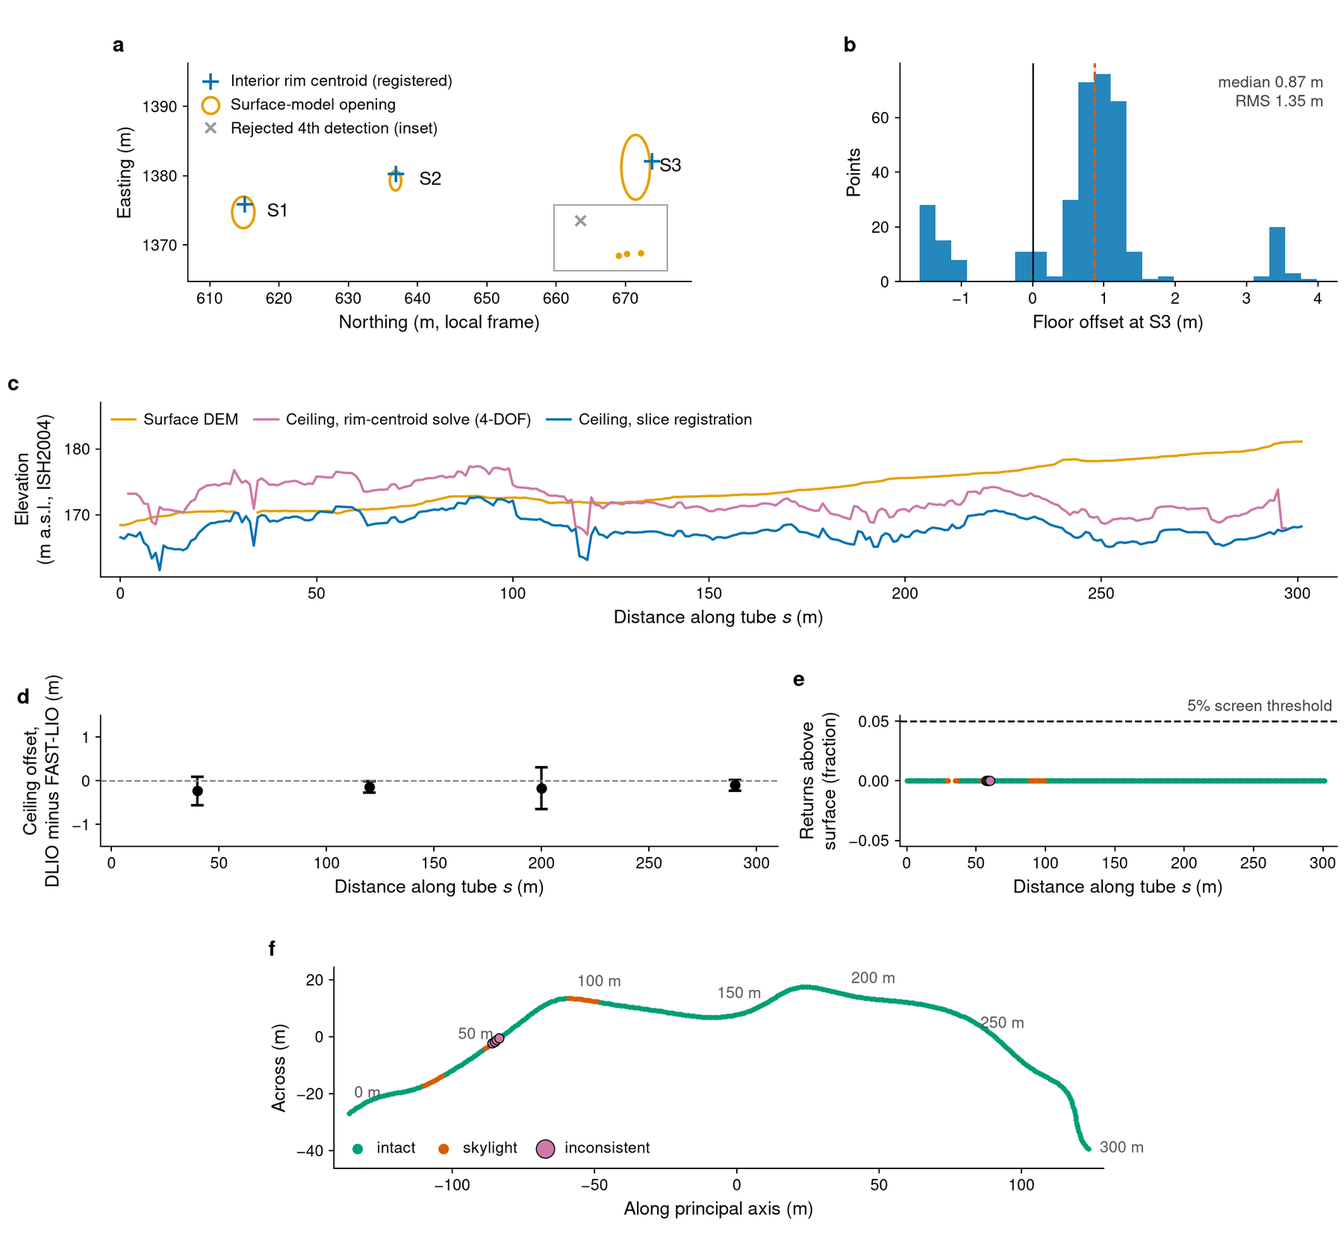
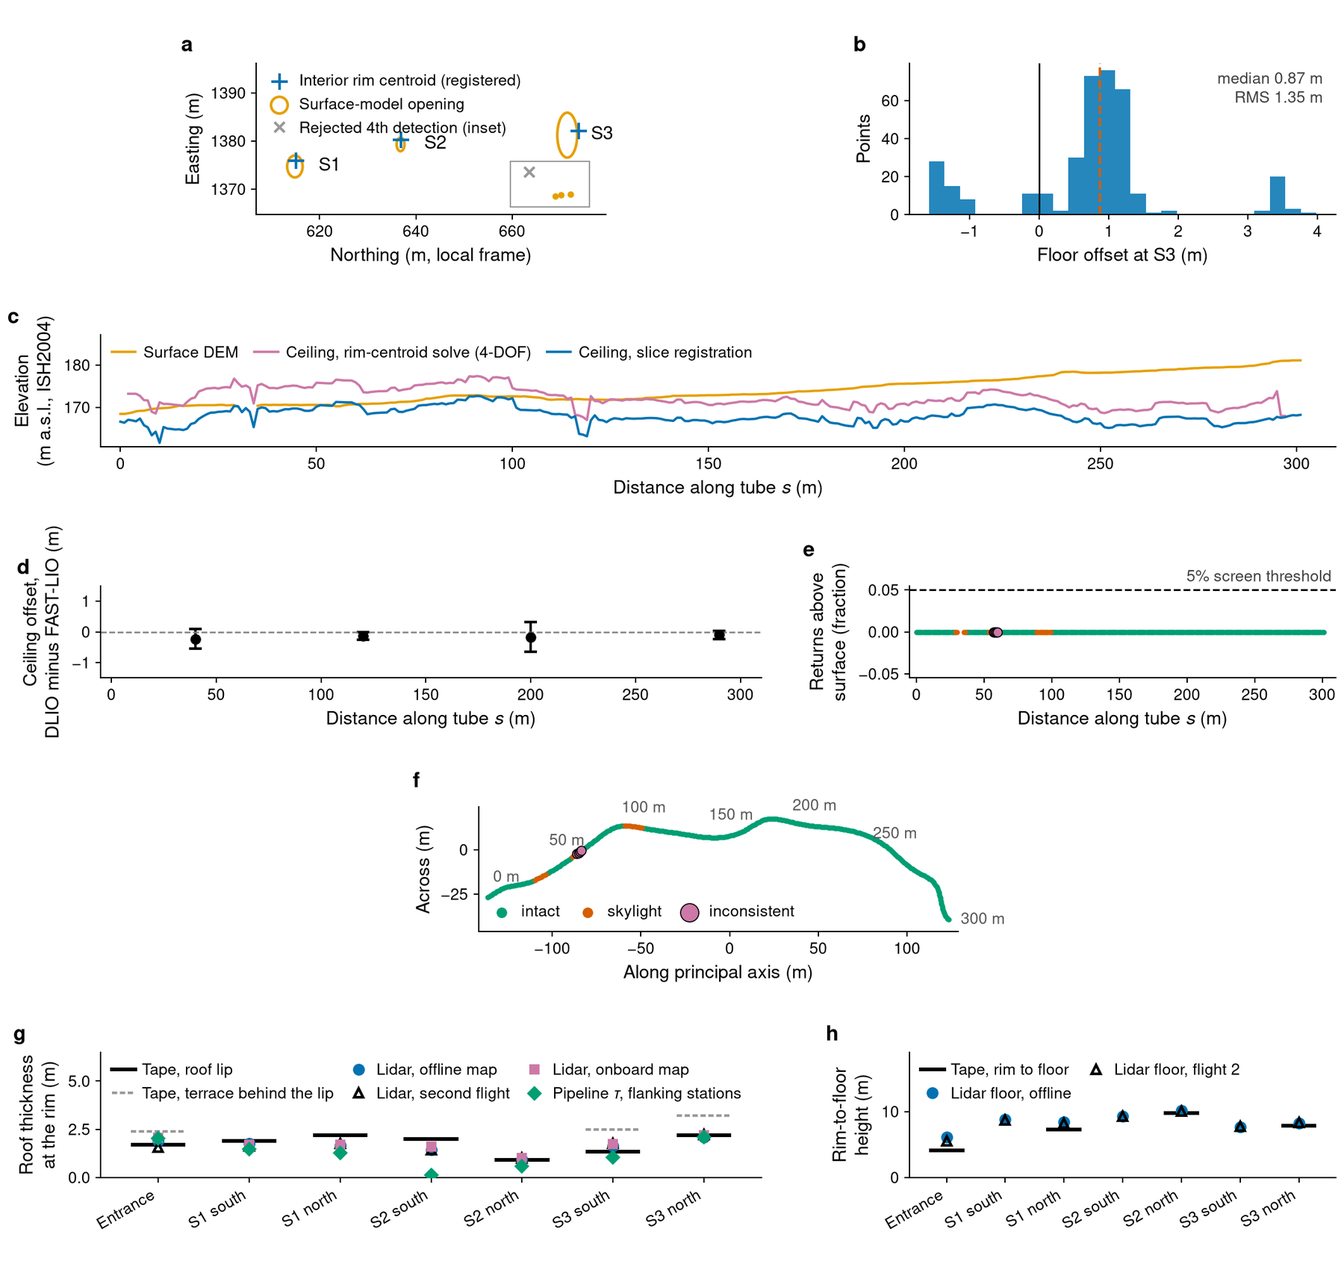
Site: rewrite all prose; add the rim ground-truth section, figure and table
New section 'Checked on site' with the tape-vs-lidar figure and the
seven-point table from Birgir's 2026-09-15 visit; facts strip now six
numbers (14 m maximum cover, 0.3 m tape agreement); hero dates corrected
(flights April 2025, survey August 2025); Extended Data Fig. 5 web copy
refreshed with panels g and h; data table gains the ground-truth row;
team roles added; README describes the new section.

diff --git a/index.html b/index.html
@@ -4,10 +4,10 @@
   <meta charset="utf-8">
   <meta name="viewport" content="width=device-width, initial-scale=1">
   <title>Autonomous interior survey of a lava tube for planetary habitat assessment</title>
-  <meta name="description" content="An autonomous aerial robot mapped 300 m of the closed section of Raufarhólshellir, Iceland, in one flight and produced the first continuous metre-resolution roof-thickness profile of a natural lava tube. Project page with summary, figures, video, data and code.">
+  <meta name="description" content="An autonomous aerial robot mapped 300 m of the closed section of Raufarhólshellir, Iceland, in one flight and measured the rock cover above the tube at every metre. Tape measurements at the skylight rims agree with the lidar to 0.3 m. Summary, figures, ground truth, data and code.">
   <meta name="author" content="Akash Patel, Nikolaos Stathoulopoulos, Edward W. Llewellin, Birgir V. Óskarsson, George Nikolakopoulos">
   <meta property="og:title" content="Autonomous interior survey of a lava tube for planetary habitat assessment">
-  <meta property="og:description" content="300 m of a lava tube mapped in one autonomous flight; a continuous roof-thickness profile for planetary habitat assessment.">
+  <meta property="og:description" content="300 m of a lava tube mapped in one autonomous flight, a roof-thickness profile at every metre, and a tape check at the rims that agrees to 0.3 m.">
   <meta property="og:type" content="website">
   <meta property="og:image" content="assets/figures/fig3_merged_model.jpg">
   <link rel="preconnect" href="https://fonts.googleapis.com">
@@ -26,6 +26,7 @@
         <li><a href="#summary">Summary</a></li>
         <li><a href="#video">Video</a></li>
         <li><a href="#figures">Figures</a></li>
+        <li><a href="#groundtruth">Ground truth</a></li>
         <li><a href="#data">Data and code</a></li>
         <li><a href="#publications">Publications</a></li>
         <li><a href="#cite">Cite</a></li>
@@ -59,16 +60,18 @@
         <a class="btn" href="#video">Video</a>
         <a class="btn" href="#data">Data and code</a>
       </div>
-      <p class="status">Field campaign: Raufarhólshellir, Iceland, August 2025.</p>
+      <p class="status">Raufarhólshellir, Iceland. Autonomous flights April 2025; surface survey 28 August 2025; tape check at the rims 15 September 2026.</p>
     </div>
   </section>
 
   <section class="facts" aria-label="Key numbers">
     <div class="wrap">
       <div class="fact"><div class="num">300 m</div><div class="lbl">of the closed section of Raufarhólshellir mapped in one autonomous flight</div></div>
-      <div class="fact"><div class="num">0</div><div class="lbl">positioning infrastructure and no command after launch</div></div>
+      <div class="fact"><div class="num">0</div><div class="lbl">commands after launch, and no positioning infrastructure in the tube</div></div>
       <div class="fact"><div class="num">3</div><div class="lbl">skylights anchor the interior map to an independent surface model</div></div>
-      <div class="fact"><div class="num">1 m</div><div class="lbl">resolution of the continuous roof-thickness profile</div></div>
+      <div class="fact"><div class="num">1 m</div><div class="lbl">spacing of the rock-cover profile along the tube</div></div>
+      <div class="fact"><div class="num">14 m</div><div class="lbl">thickest cover measured, under the road at the far end of the survey</div></div>
+      <div class="fact"><div class="num">0.3 m</div><div class="lbl">agreement between the lidar roof thickness and a tape at seven skylight rims</div></div>
       <div class="fact"><div class="num">2 to 14 m</div><div class="lbl">of rock cover along the surveyed reach</div></div>
       <div class="fact"><div class="num">84%</div><div class="lbl">of stations exceed a shielding column of 500 g cm<sup>-2</sup></div></div>
     </div>
@@ -78,9 +81,10 @@
     <div class="wrap">
       <div class="section-head"><span class="num">01</span><h2 id="summary-h">Summary</h2></div>
       <div class="measure">
-        <p>Lava tubes on the Moon and Mars are leading candidates for crewed shelters, because a basalt roof blocks ionising radiation and damps the thermal swing at the surface. Orbital imagery has catalogued hundreds of candidate entrances, but every detection ends at the opening. Roof thickness, the shape of the void beneath and whether the roof will stand cannot be seen from above. On Earth, roof thickness has been measured at isolated transects, never continuously along a natural tube.</p>
-        <p>Here we show that an autonomous aerial robot obtains that measurement in a single flight. With no positioning infrastructure and no command after launch, it reconstructed 300 metres of Raufarhólshellir, a lava tube in Iceland. Its three skylights anchor the interior to an independent surface model and yield a continuous, metre-resolution profile of the rock cover. The cover ranges from a few metres to fourteen and shields against cosmic rays almost everywhere, so the limiting constraint on shelter is structural. The standing spans demand rock strengths within the range measured for jointed basalt. The measurement survives degradation of the surface model to orbital quality, so the workflow transfers to the catalogued skylights of Mars and the Moon.</p>
-        <p class="note">The surface model is an eBee X RTK photogrammetric survey flown on 28 August 2025 by the Natural Science Institute of Iceland. The interior map comes from the lidar-inertial reconstruction of the robot's own flight. The orbital transfer test degrades the surface model to the posting and vertical noise of HiRISE-, LROC- and CTX-class terrain models and repeats the whole computation.</p>
+        <p>A lava tube is the tunnel left behind when a basalt flow drains. On the Moon and Mars such tubes are the leading candidates for crewed shelters. A roof of a few metres of basalt cuts the cosmic-ray dose by orders of magnitude and flattens the swing between day and night. Orbital cameras have found hundreds of openings. A camera sees only the hole. It cannot tell how thick the roof is, what the void beneath looks like, or whether the roof will hold. On Earth the roof has been measured at a few transects with radar, never along a tube.</p>
+        <p>We flew a small autonomous aerial robot into Raufarhólshellir, a lava tube near Reykjavík, and let it map 300 metres of the closed section on its own. It carried a spinning lidar and an inertial unit, ran its own state estimator, exploration planner and mission supervisor, and received one command: start. The map it returned is registered to a photogrammetric model of the ground above through the three skylights that both data sets see. Subtracting the ceiling from the surface gives the rock cover at every metre along the tube. It is close to zero at the collapses, 14 metres under the road at the far end and 6 metres in the median.</p>
+        <p>Two results follow. The cover shields against cosmic rays almost everywhere, so what limits a shelter is whether the roof stands, and the spans that stand here demand rock strengths inside the range measured for jointed basalt. And the measurement survives when the surface model is degraded to the quality of orbital terrain models, so the same workflow would work at a Martian or lunar skylight with an orbiter's map and a robot's flight.</p>
+        <p class="note">The flights took place in April 2025. The surface model is an eBee X RTK photogrammetric survey that Birgir V. Óskarsson of the Natural Science Institute of Iceland flew on 28 August 2025. In September 2026 he went back and measured the roof at the skylight rims with a tape; the section <a href="#groundtruth">Checked on site</a> compares his numbers with ours.</p>
       </div>
     </div>
   </section>
@@ -88,7 +92,7 @@
   <section class="section" id="video" aria-labelledby="video-h">
     <div class="wrap">
       <div class="section-head"><span class="num">02</span><h2 id="video-h">Supplementary video</h2></div>
-      <p class="measure lede">The flight from launch to the deepest station, the map growing onboard, and the registration through the skylights.</p>
+      <p class="measure lede">The flight from launch to the deepest station, with the map growing onboard and the planner choosing where to look next. The file will be added when the cut is final.</p>
       <div class="video-frame">
         <div class="video-placeholder">
           <div class="card">
@@ -115,7 +119,7 @@
   <section class="section" id="figures" aria-labelledby="figures-h">
     <div class="wrap">
       <div class="section-head"><span class="num">03</span><h2 id="figures-h">Figures</h2></div>
-      <p class="measure note">Click a figure to open it at full size. Legends follow the manuscript.</p>
+      <p class="measure note">Click a figure to open it at full size. The legends are those of the manuscript.</p>
 
       <figure class="figure" id="fig1">
         <a class="frame" href="assets/figures/fig1_anatomy_site.jpg" data-lightbox data-alt="Anatomy of a lava tube and the field site" data-caption="Figure 1 | Anatomy of a lava tube and the field site.">
@@ -215,10 +219,49 @@
     </div>
   </section>
 
+  <section class="section" id="groundtruth" aria-labelledby="groundtruth-h">
+    <div class="wrap">
+      <div class="section-head"><span class="num">04</span><h2 id="groundtruth-h">Checked on site</h2></div>
+      <div class="measure">
+        <p class="lede">On 15 September 2026, after the analysis was finished, Birgir Óskarsson went back to the tube with a tape. None of his numbers entered the analysis; they are the check.</p>
+        <p>At the north and south rim of the entrance and of each skylight he hung the tape from the ground surface to the underside of the roof lip, and at four of the openings from the rim down to the floor. The registered model gives the same quantities: the surface elevation minus the highest lidar returns just outside each rim, and minus the lowest returns beneath it. Over the seven rim points the lidar roof thickness differs from the tape by 0.1 m on average and by 0.33 m root mean square. The largest difference is 0.6 m. Between themselves, the three interior maps (the two flights and the onboard map) agree to about 0.1 m. The rim-to-floor heights agree to 0.4 m at S2 and S3 and to 1.1 m at S1. At the entrance the lidar floor lies 2 m below the tape value; what the tape was measured to there is being confirmed. His point coordinates, digitised on his own orthomosaic, fall on the surface model at our reprojection to 3 cm, which confirms the horizontal frame as well.</p>
+        <p>The paper quotes a systematic uncertainty of 1.5 m on the whole profile, set by the registration datum. The rim check bounds the datum error along the skylight reach at about 0.6 m. We keep the larger value because the check does not reach the deep interior, where the cover is thickest. He also counted the flow units on the west wall of each skylight, three, five and four, with the thickest units 1.4 to 2.8 m, and collected two rock samples. Their bulk density, once measured, replaces the 2,600 kg per cubic metre the shielding numbers assume.</p>
+      </div>
+
+      <figure class="figure" id="figgt">
+        <a class="frame" href="assets/figures/rim_groundtruth.png" data-lightbox data-alt="Tape measurements at the skylight rims against the registered model" data-caption="Tape measurements at the skylight rims against the registered model.">
+          <img src="assets/figures/rim_groundtruth.png" width="1800" height="620" alt="Tape measurements at the skylight rims against the registered model" loading="lazy">
+        </a>
+        <figcaption>
+          <span class="title">Ground truth<span class="sep">|</span>Tape against lidar at the seven rim points</span>
+          <p><b>a</b>, Roof thickness at the rim: the tape value (black bar; dotted grey, the thicker terrace behind the lip where one exists) against the registered lidar for the offline map, the second flight and the onboard map, and the pipeline overburden at the three nearest intact stations. <b>b</b>, Height from the rim to the floor by tape and from the lidar floor of the two flights. The same panels appear as Extended Data Fig. 5g, h.</p>
+        </figcaption>
+      </figure>
+
+      <div class="table-wrap">
+        <table>
+          <thead>
+            <tr><th scope="col">Rim point</th><th scope="col">Tape, lip (m)</th><th scope="col">Tape, terrace (m)</th><th scope="col">Lidar, offline (m)</th><th scope="col">Lidar, flight 2 (m)</th><th scope="col">Lidar, onboard (m)</th><th scope="col">Pipeline, flanking stations (m)</th><th scope="col">Rim to floor, tape (m)</th><th scope="col">Rim to floor, lidar (m)</th></tr>
+          </thead>
+          <tbody>
+            <tr><td>Entrance</td><td>1.70</td><td>2.40</td><td>1.9</td><td>1.6</td><td>2.0</td><td>2.0</td><td>4.10</td><td>6.1</td></tr>
+            <tr><td>S1 south</td><td>1.90</td><td></td><td>1.8</td><td>1.6</td><td>1.7</td><td>1.5</td><td></td><td>8.8</td></tr>
+            <tr><td>S1 north</td><td>2.20</td><td></td><td>1.7</td><td>1.8</td><td>1.7</td><td>1.3</td><td>7.30</td><td>8.4</td></tr>
+            <tr><td>S2 south</td><td>2.00</td><td></td><td>1.4</td><td>1.4</td><td>1.6</td><td>0.1</td><td></td><td>9.3</td></tr>
+            <tr><td>S2 north</td><td>0.90</td><td></td><td>0.9</td><td>1.0</td><td>1.0</td><td>0.6</td><td>9.80</td><td>10.1</td></tr>
+            <tr><td>S3 south</td><td>1.35</td><td>2.50</td><td>1.6</td><td>1.8</td><td>1.7</td><td>1.0</td><td></td><td>7.7</td></tr>
+            <tr><td>S3 north</td><td>2.20</td><td>3.20</td><td>2.1</td><td>2.2</td><td>2.2</td><td>2.1</td><td>7.80</td><td>8.2</td></tr>
+          </tbody>
+        </table>
+      </div>
+      <p class="note" style="margin-top:1rem">Lip: the uppermost roof terrace, surface to underside. Terrace: the thicker terrace behind the lip, read by eye. Lidar: surface elevation minus the highest interior returns in a strip 0.5 to 3.5 m outward from the rim point. Flanking stations: the paper's overburden at the three nearest retained stations. Rim to floor, lidar: surface minus the lowest returns within 3 m of the point, offline map, April 2025. Flow units on the west walls: S1 three (lowest 2.83 m), S2 five (lowest about 1.4 m), S3 four (middle two 1.8 and 2.0 m). Comparison script and files: <a href="https://github.com/aakapatel/lava-pcd/blob/main/analysis/skylight_groundtruth.py">skylight_groundtruth.py</a>, <a href="https://github.com/aakapatel/lava-pcd/tree/main/analysis_out_v9/groundtruth_2026-09-15">field CSV and notes</a>, <a href="https://github.com/aakapatel/lava-pcd/blob/main/analysis_out_v9/skylight_groundtruth.json">results JSON</a>.</p>
+    </div>
+  </section>
+
   <section class="section" id="data" aria-labelledby="data-h">
     <div class="wrap">
-      <div class="section-head"><span class="num">04</span><h2 id="data-h">Data and code</h2></div>
-      <p class="measure lede">Every figure and every number in the paper is produced by the analysis code from the files below. All files are on the <a href="https://github.com/aakapatel/lavatube-survey/releases/tag/data-v1">data-v1 release</a> of this site's repository, with <a href="https://github.com/aakapatel/lavatube-survey/releases/download/data-v1/DATA_README.md">a README</a> on coordinate frames and licences and <a href="https://github.com/aakapatel/lavatube-survey/releases/download/data-v1/SHA256SUMS.txt">SHA-256 checksums</a>. The same files are archived at Zenodo, <a href="https://doi.org/10.5281/zenodo.22710161">doi:10.5281/zenodo.22710161</a> (the DOI resolves once the record is published). Data licence CC BY 4.0.</p>
+      <div class="section-head"><span class="num">05</span><h2 id="data-h">Data and code</h2></div>
+      <p class="measure lede">The analysis code produces every figure and every number in the paper from the files below. All files are on the <a href="https://github.com/aakapatel/lavatube-survey/releases/tag/data-v1">data-v1 release</a> of this site's repository, with <a href="https://github.com/aakapatel/lavatube-survey/releases/download/data-v1/DATA_README.md">a README</a> on coordinate frames and licences and <a href="https://github.com/aakapatel/lavatube-survey/releases/download/data-v1/SHA256SUMS.txt">SHA-256 checksums</a>. The same files are archived at Zenodo, <a href="https://doi.org/10.5281/zenodo.22710161">doi:10.5281/zenodo.22710161</a>. Data licence CC BY 4.0.</p>
       <div class="table-wrap">
         <table>
           <thead>
@@ -256,8 +299,14 @@
               <td><a href="https://github.com/aakapatel/lavatube-survey/releases/download/data-v1/analysis_outputs_baseline_and_ed.zip">analysis_outputs_baseline_and_ed.zip (15 MB)</a></td>
             </tr>
             <tr>
+              <td>Ground truth at the rims</td>
+              <td>The tape measurements of 15 September 2026 at seven rim points (field CSV and notes, B. V. Óskarsson), the script that compares them with the registered model, and its outputs per point.</td>
+              <td class="fmt">CSV, JSON, Python</td>
+              <td><a href="https://github.com/aakapatel/lava-pcd/tree/main/analysis_out_v9/groundtruth_2026-09-15">field CSV and notes</a> · <a href="https://github.com/aakapatel/lava-pcd/blob/main/analysis_out_v9/skylight_groundtruth.json">comparison (JSON)</a> · <a href="https://github.com/aakapatel/lava-pcd/blob/main/analysis/skylight_groundtruth.py">script</a></td>
+            </tr>
+            <tr>
               <td>Figures</td>
-              <td>The five main figures and ten Extended Data items as PDF and PNG, as generated by the code.</td>
+              <td>The five main figures and ten Extended Data items as PDF and PNG, as the code generates them. Extended Data Fig. 5 gained the rim panels on 17 September 2026; the current file is in the analysis repository.</td>
               <td class="fmt">PDF, PNG</td>
               <td><a href="https://github.com/aakapatel/lavatube-survey/releases/download/data-v1/figures_nature_v10.zip">figures_nature_v10.zip (68 MB)</a></td>
             </tr>
@@ -281,8 +330,8 @@
 
   <section class="section" id="publications" aria-labelledby="pubs-h">
     <div class="wrap">
-      <div class="section-head"><span class="num">05</span><h2 id="pubs-h">Related publications</h2></div>
-      <p class="measure lede">The exploration planner flown in the tube and its ground-aerial extension.</p>
+      <div class="section-head"><span class="num">06</span><h2 id="pubs-h">Related publications</h2></div>
+      <p class="measure lede">The two papers that describe the planner the robot flew, and its extension to a ground and aerial pair.</p>
       <ol class="pubs">
         <li class="pub">
           <span class="title">STAGE: Scalable and Traversability-Aware Graph based Exploration Planner for Dynamically Varying Environments</span>
@@ -306,8 +355,8 @@
 
   <section class="section" id="cite" aria-labelledby="cite-h">
     <div class="wrap">
-      <div class="section-head"><span class="num">06</span><h2 id="cite-h">Cite</h2></div>
-      <p class="measure note">The entry below is a placeholder until the paper is published. It will be replaced with the final reference and DOI.</p>
+      <div class="section-head"><span class="num">07</span><h2 id="cite-h">Cite</h2></div>
+      <p class="measure note">The entry below stands in until the paper is published; the final reference and DOI replace it then.</p>
       <div class="cite-box">
 <pre id="bibtex">@unpublished{patel2026lavatube,
   author = {Patel, Akash and Stathoulopoulos, Nikolaos and Llewellin, Edward W. and {\'O}skarsson, Birgir V. and Nikolakopoulos, George},
@@ -325,32 +374,36 @@
 
   <section class="section" id="contact" aria-labelledby="contact-h">
     <div class="wrap">
-      <div class="section-head"><span class="num">07</span><h2 id="contact-h">Team and contact</h2></div>
+      <div class="section-head"><span class="num">08</span><h2 id="contact-h">Team and contact</h2></div>
       <div class="team">
         <div class="person">
           <div class="name">Akash Patel</div>
-          <div class="role">Corresponding author</div>
+          <div class="role">Autonomy stack, field campaign, analysis. Corresponding author</div>
           <div class="aff">Robotics and Artificial Intelligence Group, Luleå University of Technology, Sweden</div>
           <div class="mail"><a href="mailto:akapat@ltu.se">akapat@ltu.se</a></div>
         </div>
         <div class="person">
           <div class="name">Nikolaos Stathoulopoulos</div>
+          <div class="role">Map merging through the skylights</div>
           <div class="aff">Robotics and Artificial Intelligence Group, Luleå University of Technology, Sweden</div>
         </div>
         <div class="person">
           <div class="name">Edward W. Llewellin</div>
+          <div class="role">Volcanology, roof analysis, final registration</div>
           <div class="aff">Department of Earth Sciences, Durham University, United Kingdom</div>
         </div>
         <div class="person">
           <div class="name">Birgir V. Óskarsson</div>
+          <div class="role">Surface survey, rim measurements, site geology</div>
           <div class="aff">Natural Science Institute of Iceland, Garðabær, Iceland</div>
         </div>
         <div class="person">
           <div class="name">George Nikolakopoulos</div>
+          <div class="role">Supervision</div>
           <div class="aff">Robotics and Artificial Intelligence Group, Luleå University of Technology, Sweden</div>
         </div>
       </div>
-      <p class="note" style="margin-top:1.5rem">Questions about the data, the code or the field campaign: write to the corresponding author.</p>
+      <p class="note" style="margin-top:1.5rem">Questions about the data, the code or the field campaign go to the corresponding author.</p>
     </div>
   </section>
 

diff --git a/README.md b/README.md
@@ -14,8 +14,9 @@ because every asset path is relative.
 index.html              the page
 assets/css/style.css    stylesheet
 assets/js/main.js       nav highlight, figure lightbox, copy-BibTeX button
-assets/figures/         web copies of the five main figures and the ten
-                        Extended Data items (max 1800 px wide, each under 700 KB)
+assets/figures/         web copies of the five main figures, the ten
+                        Extended Data items and the rim ground-truth figure
+                        (max 1800 px wide, each under 700 KB)
 .nojekyll               tells GitHub Pages to serve the files as they are
 LICENSE                 CC BY 4.0 for the site content
 ```
@@ -54,6 +55,16 @@ by a `<span class="badge">link to be added</span>`. For each released item, set 
   `aria-disabled`, and change the label.
 - Cite: replace the `@unpublished` entry inside `<pre id="bibtex">` with the
   published reference. Escape non-ASCII characters in BibTeX as in the placeholder.
+
+## Ground-truth section
+
+Section `id="groundtruth"` reports the tape measurements of 15 September 2026
+at the skylight rims against the registered model. Its figure
+(`assets/figures/rim_groundtruth.png`) comes from
+`lavatube_maps_data_analysis/analysis/make_web_groundtruth_figure.py` and its
+table from `analysis_out_v9/skylight_groundtruth.csv`; if the comparison is
+rerun, regenerate the figure, copy it at 1800 px wide, and update the table
+cells by hand from the CSV.
 
 ## Regenerate figure copies
 
